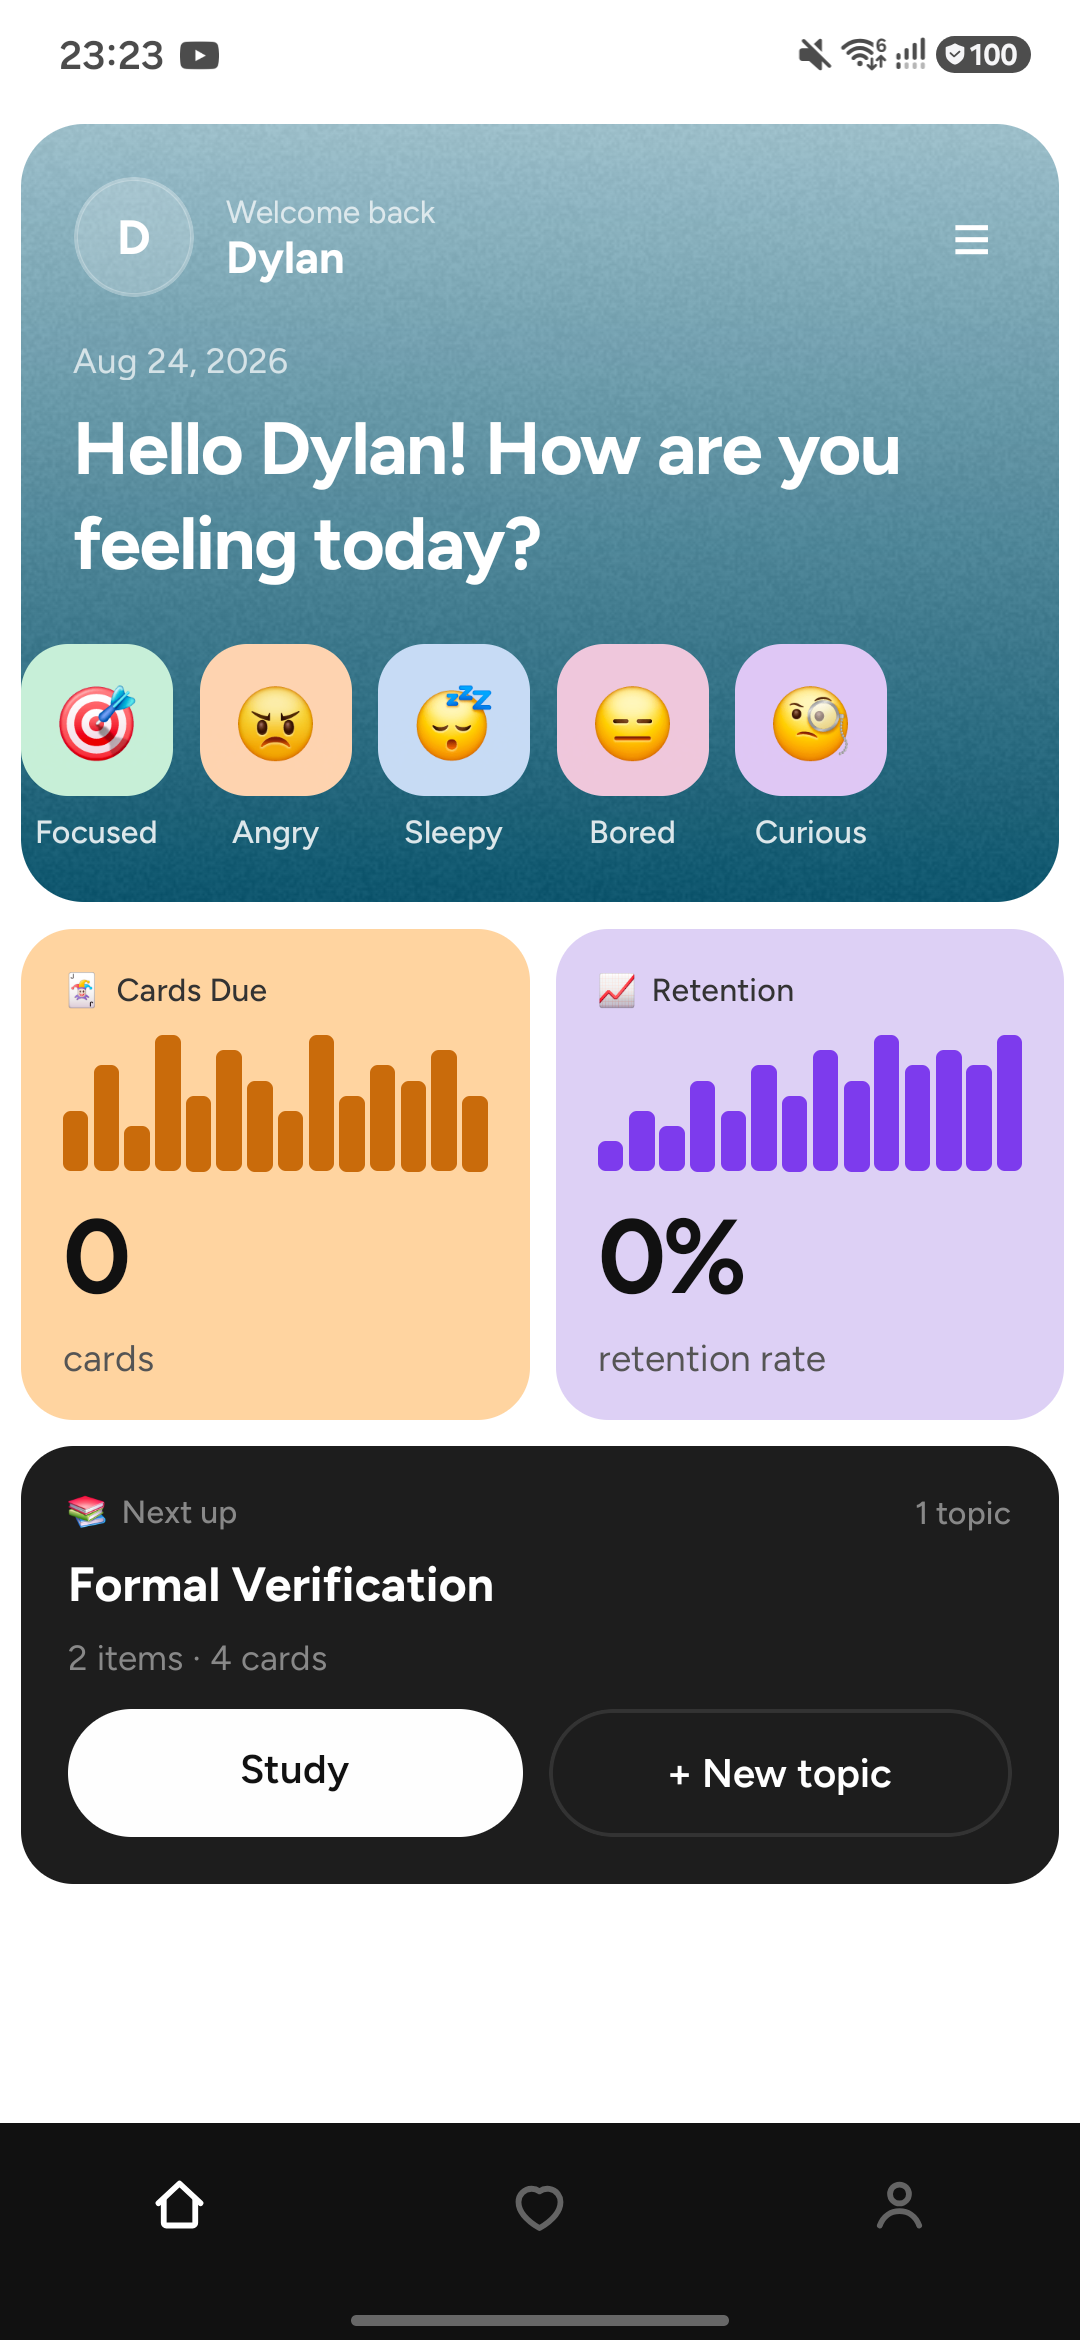
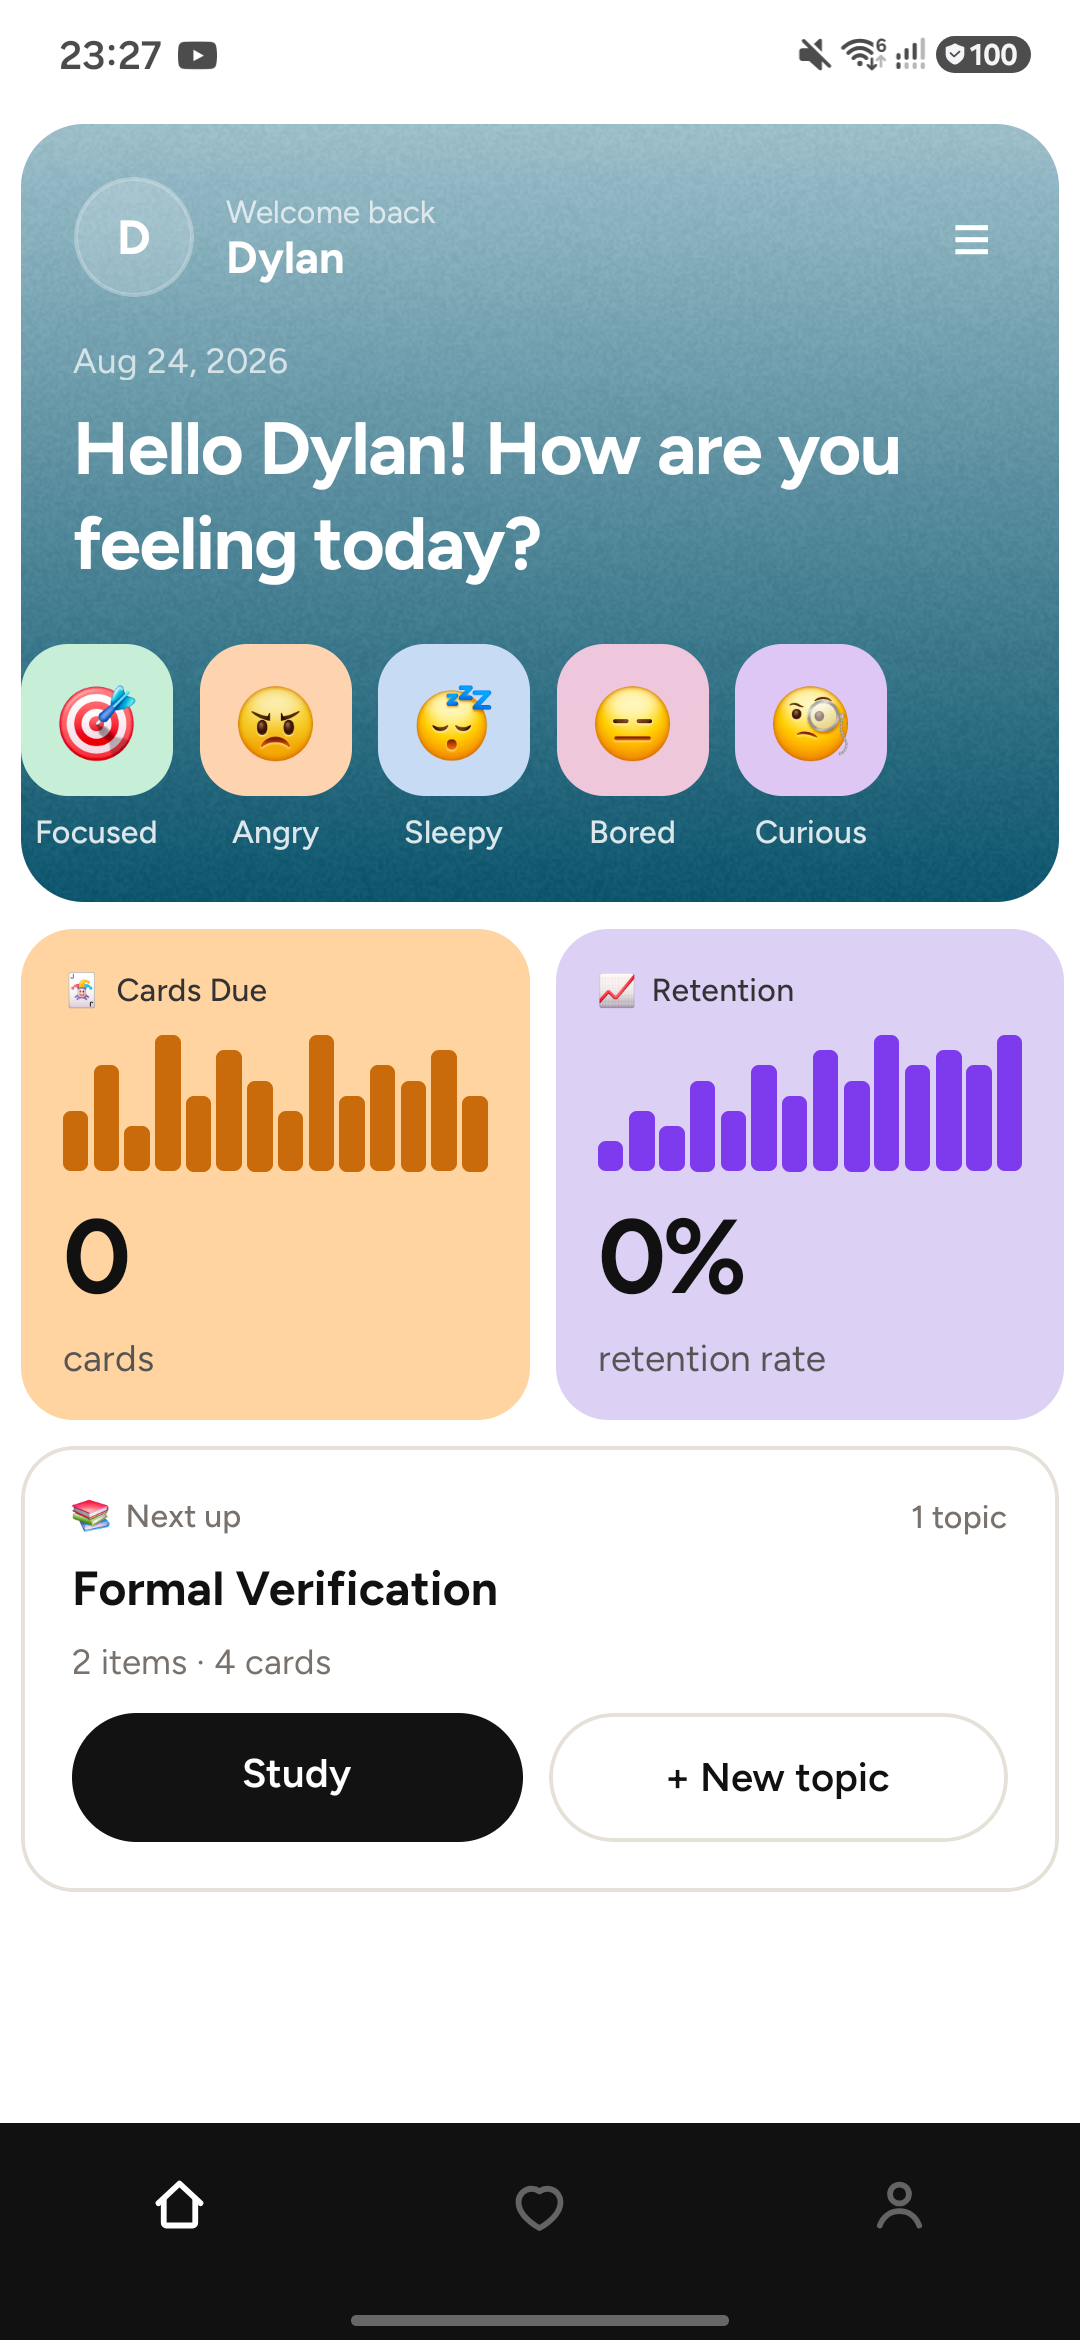
Topic card: white bg with border matching reference quiz card style
- White background + #E5E1D8 border (matches reference light card)
- Dark text, Study button #111111 fill, New topic outlined
- Both buttons pill-shaped (borderRadius 999)

Changed region(s): [[0.0, 0.5927, 1.0, 0.8111], [0.1222, 0.0, 0.1528, 0.0312]]

diff --git a/app/app/(tabs)/index.tsx b/app/app/(tabs)/index.tsx
@@ -286,37 +286,39 @@ const styles = StyleSheet.create({
   },
 
   quizCard: {
-    backgroundColor: "#1C1C1C",
+    backgroundColor: "#FFFFFF",
     borderRadius: 20,
     padding: 18,
     gap: 8,
+    borderWidth: 1.5,
+    borderColor: "#E5E1D8",
   },
   quizCardHeader: { flexDirection: "row", justifyContent: "space-between" },
-  quizMeta: { fontFamily: "Figtree_500Medium", fontSize: 12, color: "#888" },
+  quizMeta: { fontFamily: "Figtree_500Medium", fontSize: 12, color: "#78716C" },
   quizQuestion: {
     fontFamily: "Figtree_700Bold",
     fontSize: 18,
-    color: "#FFFFFF",
+    color: "#111111",
     lineHeight: 24,
   },
-  quizSub: { fontFamily: "Figtree_400Regular", fontSize: 13, color: "#888" },
+  quizSub: { fontFamily: "Figtree_400Regular", fontSize: 13, color: "#78716C" },
   quizBtns: { flexDirection: "row", gap: 10, marginTop: 4 },
   btnDark: {
+    flex: 1,
+    backgroundColor: "#111111",
+    borderRadius: 999,
+    paddingVertical: 14,
+    alignItems: "center",
+  },
+  btnDarkText: { fontFamily: "Figtree_600SemiBold", fontSize: 15, color: "#FFFFFF" },
+  btnLight: {
     flex: 1,
     backgroundColor: "#FFFFFF",
     borderRadius: 999,
     paddingVertical: 14,
     alignItems: "center",
-  },
-  btnDarkText: { fontFamily: "Figtree_600SemiBold", fontSize: 15, color: "#111111" },
-  btnLight: {
-    flex: 1,
-    backgroundColor: "transparent",
-    borderRadius: 999,
-    paddingVertical: 14,
-    alignItems: "center",
     borderWidth: 1.5,
-    borderColor: "#333",
+    borderColor: "#E5E1D8",
   },
-  btnLightText: { fontFamily: "Figtree_600SemiBold", fontSize: 15, color: "#FFFFFF" },
+  btnLightText: { fontFamily: "Figtree_600SemiBold", fontSize: 15, color: "#111111" },
 });
